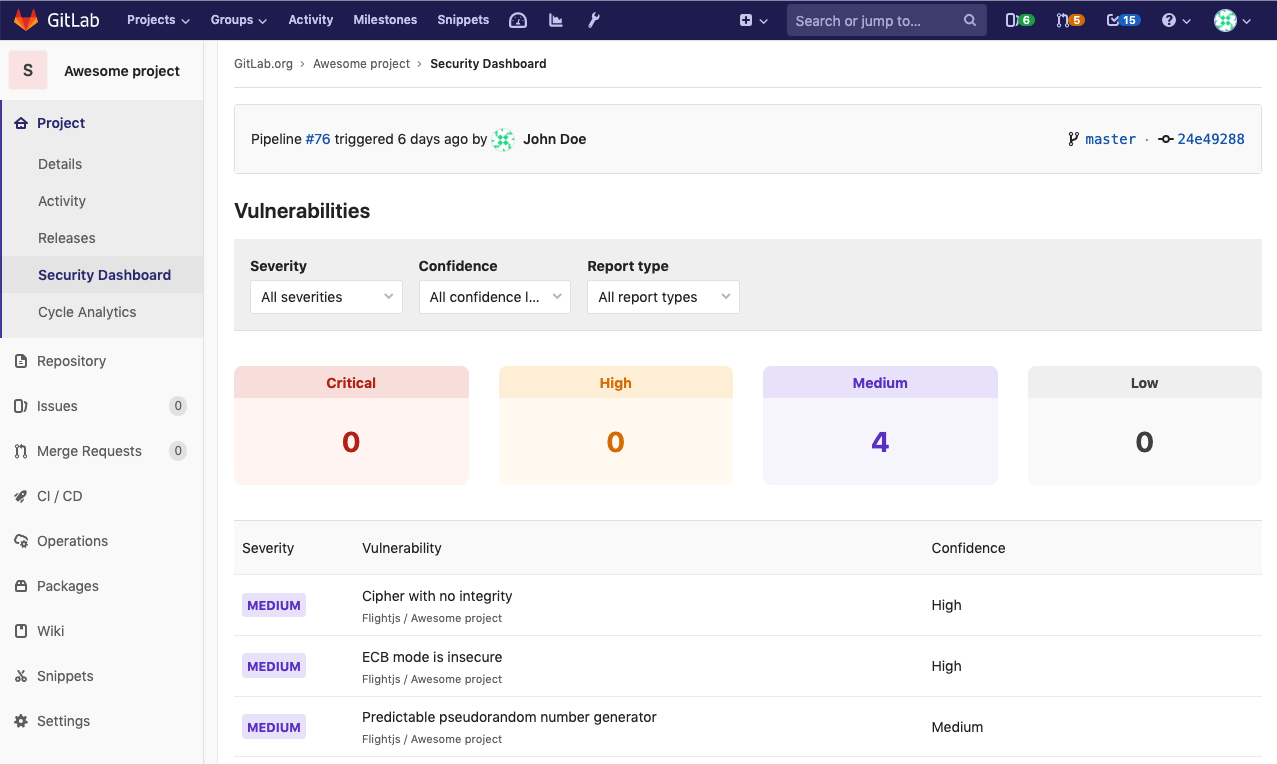
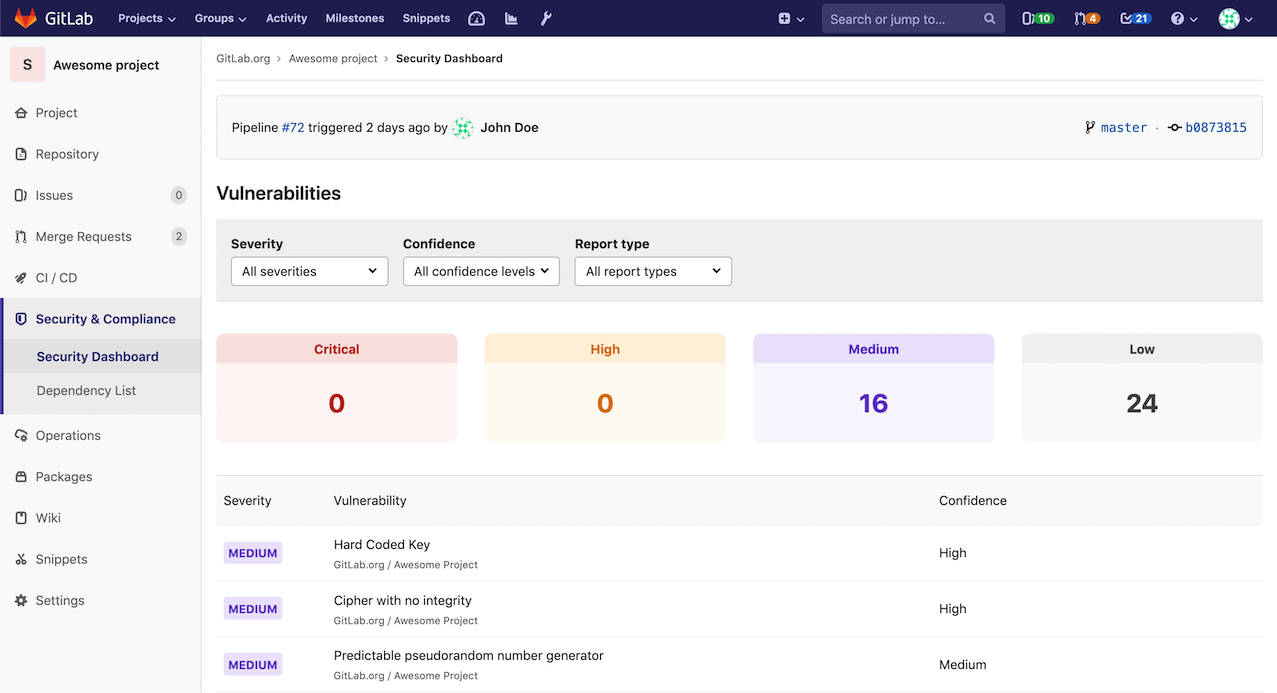
Update docs to reflect new Security tabs
This commit includes changes to update the documentation so it
reflects the new navigation structure introduced by the additional
tab "Security & Compliance" to the project-views sidebar and
"Security" to the group-views sidebar.

* Screenshot
* Paths to the Dependency List
* Paths to the group-level security dashboard

diff --git a/doc/user/application_security/security_dashboard/index.md b/doc/user/application_security/security_dashboard/index.md
@@ -49,7 +49,7 @@ The group Security Dashboard gives an overview of the vulnerabilities of all the
 projects in a group and its subgroups.
 
 First, navigate to the Security Dashboard found under your group's
-**Overview > Security Dashboard**.
+**Security** tab.
 
 Once you're on the dashboard, at the top you should see a series of filters for:
 
@@ -58,7 +58,7 @@ Once you're on the dashboard, at the top you should see a series of filters for:
 - Report type
 - Project
 
-![dashboard with action buttons and metrics](img/dashboard.png)
+![dashboard with action buttons and metrics](img/group_security_dashboard.png)
 
 Selecting one or more filters will filter the results in this page.
 The first section is an overview of all the vulnerabilities, grouped by severity.

diff --git a/doc/user/application_security/dependency_scanning/index.md b/doc/user/application_security/dependency_scanning/index.md
@@ -330,7 +330,7 @@ project's dependencies with their versions. This list can be generated only for
 [languages and package managers](#supported-languages-and-package-managers)
 supported by Gemnasium.
 
-To see the generated dependency list, navigate to your project's **Project > Dependency List**.
+To see the generated dependency list, navigate to your project's **Security & Compliance > Dependency List**.
 
 ## Versioning and release process
 
